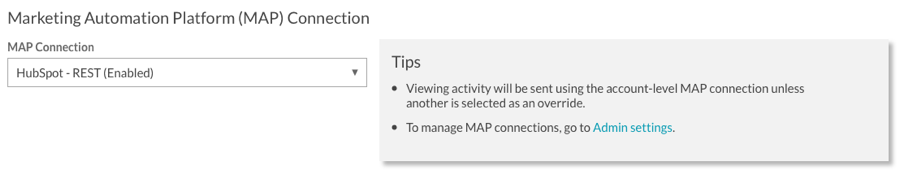
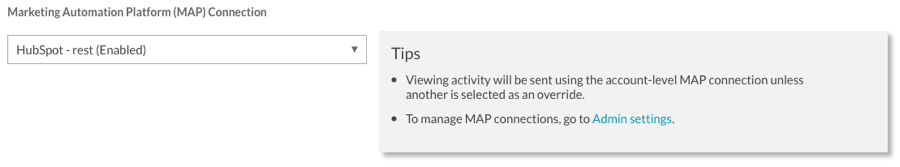
update images on publish page.  added lead form option.

diff --git a/_site/videos/publishing-videos.html b/_site/videos/publishing-videos.html
@@ -389,9 +389,12 @@ function doGTranslate(lang_pair) {if(lang_pair.value)lang_pair=lang_pair.value;i
     <li>Open the <strong>Videos</strong> page.</li>
     <li>Select a video by clicking the checkbox next to the video.</li>
     <li>Click <strong>Publish</strong>.</li>
-    <li>(Optional) Select a <strong>MAP Connection</strong>. The dropdown list will contain a list of all MAP connections that have been created. By selecting a MAP Connection, video viewing activity will be sent to the selected platform.
+    <li>(Optional) Select a <strong>MAP Connection</strong>. The dropdown list will contain a list of all <a href="/admin/configuring-map-connections.html">MAP connections</a> that have been created. By selecting a MAP Connection, video viewing activity will be sent to the selected platform.
       The availability of this option is based upon the Brightcove Campaign package being used.
       <figure class="bcls-figure"><img class="bcls-image--no-border" alt="select player" src="/assets/images/videos/publish-map-connection.png" /></figure>
+    </li>
+    <li>(Optional) Select a <strong>Lead Form</strong>. The dropdown list will contain a list of all <a href="/admin/creating-lead-forms.html">lead forms</a> that have been created. By selecting a MAP Connection, a lead form can be displayed during video playback to capture viewer information. The availability of this option is based upon the Brightcove Campaign package being used.
+      <figure class="bcls-figure"><img class="bcls-image--no-border" alt="select player" src="/assets/images/videos/publish-lead-form.png" /></figure>
     </li>
     <li>Copy the <strong>Embed Code</strong> and paste it into your landing page.
       This is the code which is needed to publish your video on a web page.

diff --git a/videos/publishing-videos.html b/videos/publishing-videos.html
@@ -15,9 +15,12 @@ parent: Managing Videos
     <li>Open the <strong>Videos</strong> page.</li>
     <li>Select a video by clicking the checkbox next to the video.</li>
     <li>Click <strong>Publish</strong>.</li>
-    <li>(Optional) Select a <strong>MAP Connection</strong>. The dropdown list will contain a list of all MAP connections that have been created. By selecting a MAP Connection, video viewing activity will be sent to the selected platform.
+    <li>(Optional) Select a <strong>MAP Connection</strong>. The dropdown list will contain a list of all <a href="/admin/configuring-map-connections.html">MAP connections</a> that have been created. By selecting a MAP Connection, video viewing activity will be sent to the selected platform.
       The availability of this option is based upon the Brightcove Campaign package being used.
       <figure class="bcls-figure"><img class="bcls-image--no-border" alt="select player" src="/assets/images/videos/publish-map-connection.png" /></figure>
+    </li>
+    <li>(Optional) Select a <strong>Lead Form</strong>. The dropdown list will contain a list of all <a href="/admin/creating-lead-forms.html">lead forms</a> that have been created. By selecting a MAP Connection, a lead form can be displayed during video playback to capture viewer information. The availability of this option is based upon the Brightcove Campaign package being used.
+      <figure class="bcls-figure"><img class="bcls-image--no-border" alt="select player" src="/assets/images/videos/publish-lead-form.png" /></figure>
     </li>
     <li>Copy the <strong>Embed Code</strong> and paste it into your landing page.
       This is the code which is needed to publish your video on a web page.

diff --git a/_site/admin/connecting-to-salesforce.html b/_site/admin/connecting-to-salesforce.html
@@ -533,7 +533,7 @@ function doGTranslate(lang_pair) {if(lang_pair.value)lang_pair=lang_pair.value;i
 
 <hr>
 <div class="last-updated">
-  Page last updated on 08 Apr 2020
+  Page last updated on 09 Apr 2020
 </div>
 
 <footer class="bcls-footer" role="contentinfo">

diff --git a/_site/admin/index.html b/_site/admin/index.html
@@ -427,7 +427,7 @@ function doGTranslate(lang_pair) {if(lang_pair.value)lang_pair=lang_pair.value;i
 
 <hr>
 <div class="last-updated">
-  Page last updated on 10 Mar 2020
+  Page last updated on 09 Apr 2020
 </div>
 
 <footer class="bcls-footer" role="contentinfo">
